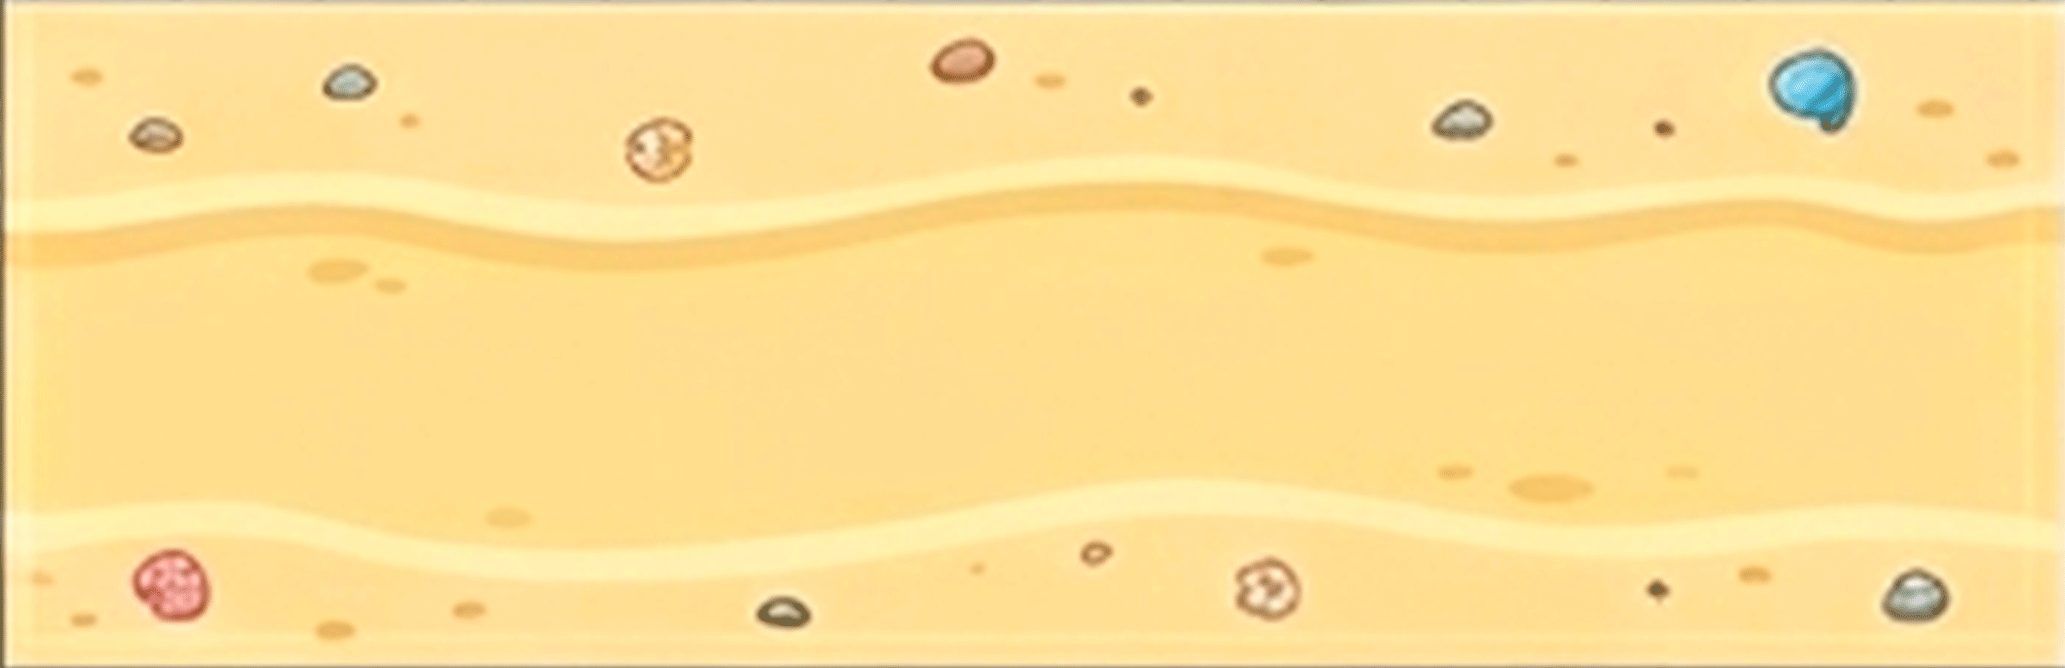
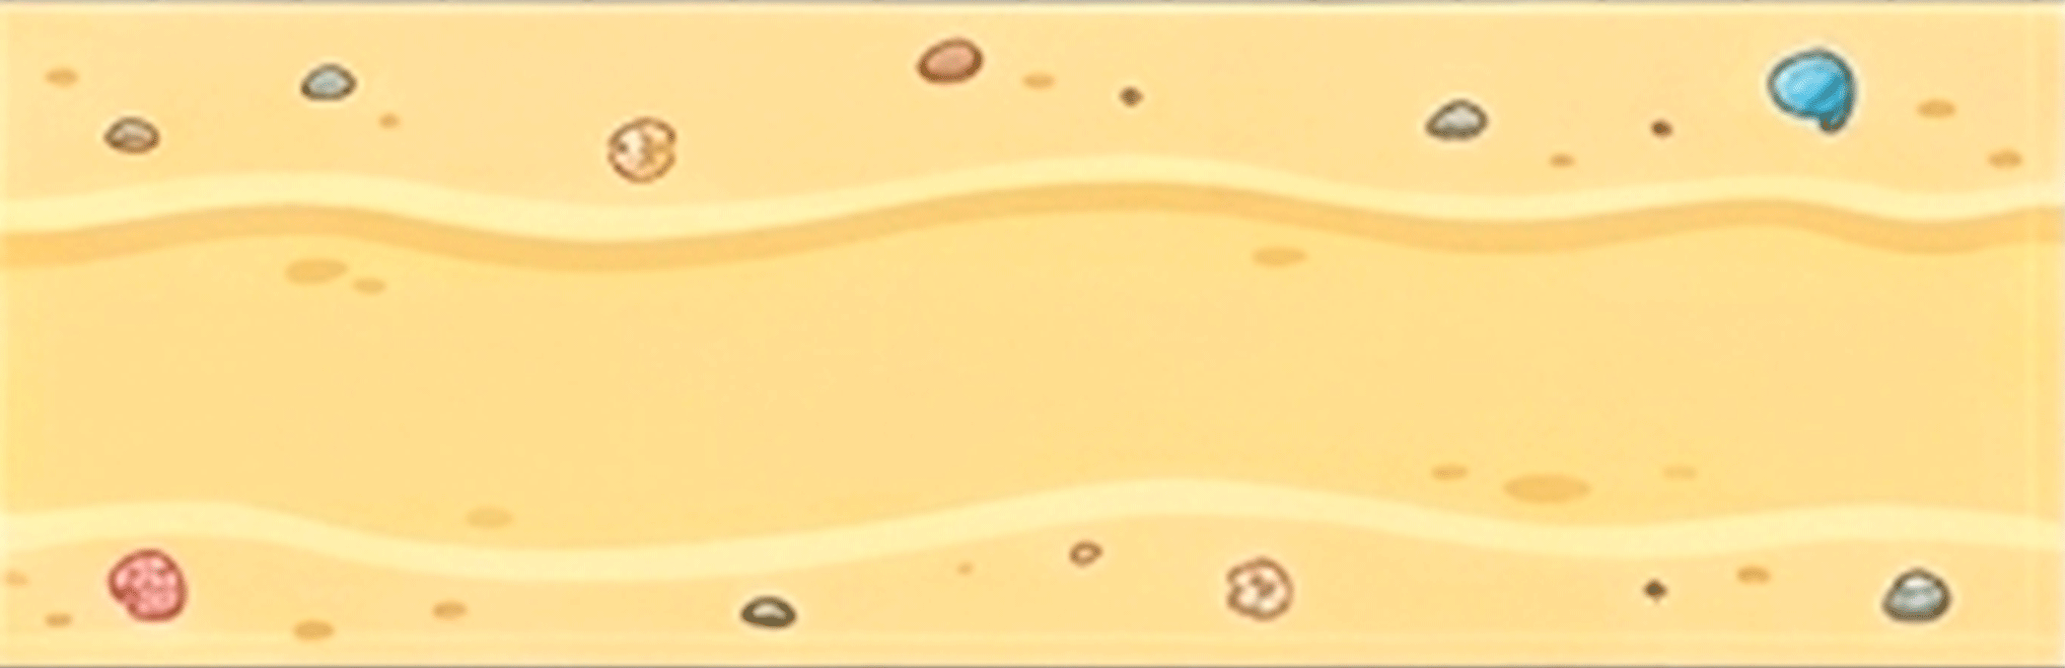
sprites corrections

diff --git a/game.html b/game.html
@@ -41,7 +41,7 @@
    LA BODA DE CRIS Y JOSÉ — ENDLESS RUNNER v3
    Assets in:  assets/characters/*.png   assets/bg/*.png
 ═══════════════════════════════════════════════════════════════════ */
-const W=800, H=360, GROUND_Y=H-35, GOAL_DIST=2000;
+const W=800, H=360, GROUND_Y=H-42, GOAL_DIST=2000;
 const SPEEDS={initial:260,max:500,accelPerSec:7};
 
 /* ── All character asset keys (filenames without .png) ── */
@@ -303,7 +303,7 @@ class MenuScene extends Phaser.Scene {
   constructor(){ super({key:'Menu'}); }
   create(){
     this.cameras.main.setBackgroundColor('#1a0a00');
-    this.add.image(W/2,H/2).setDisplaySize(W,H).setAlpha(.9);
+    this.add.image(W/2,H/2,'portada').setDisplaySize(W,H).setAlpha(.9);
     const ov=this.add.graphics();
     ov.fillGradientStyle(0,0,0,0,0,0,0,0.55); ov.fillRect(0,H*.58,W,H*.42);
 
@@ -377,7 +377,7 @@ class GameScene extends Phaser.Scene {
     
     /* World */
     this.bgFar = this._scaledBg(0, H, `bg_${this.themes[0]}_far`, 0);
-    this.bgMid = this._scaledBg(0, H, `bg_${this.themes[0]}_mid`, 1);
+    this.bgMid = this._scaledBg(0, H - 85, `bg_${this.themes[0]}_mid`, 1);
     this.gndTile = this._scaledBg(H - 85, 85, `floor_${this.themes[0]}`, 3);
     
     /* Variables */
@@ -392,11 +392,11 @@ class GameScene extends Phaser.Scene {
     this.shadow=this.add.ellipse(120,GROUND_Y+4,80,12,0,0.18).setDepth(3);
 
     /* Vale */
-    this.valeImg=this.add.image(W + Phaser.Math.Between(800, 2500),GROUND_Y,'vale_walking01').setOrigin(.5,1).setDepth(8);
-    let valeTex = this.textures.get('vale_walking01').getSourceImage();
+    this.valeImg=this.add.image(W + Phaser.Math.Between(800, 2500),GROUND_Y - 30,'vale_idle-Stand01').setOrigin(.5,1).setDepth(8);
+    let valeTex = this.textures.get('vale_idle-Stand01').getSourceImage();
     let valeScale = valeTex && valeTex.height ? 90 / valeTex.height : 1;
     this.valeImg.setScale(valeScale);
-    this.valeAnim=new Anim(this.valeImg,ANIMS.vale.walk,3);
+    this.valeAnim=new Anim(this.valeImg,ANIMS.vale.idle,3);
 
     /* Groups */
     this.items=this.add.group();
@@ -513,7 +513,10 @@ class GameScene extends Phaser.Scene {
     else if(r < 0.7){ type=Phaser.Utils.Array.GetRandom(blockerMoneyTypes); category='block_money'; }
     else if(r < 0.9){ type=Phaser.Utils.Array.GetRandom(blockerLifeTypes); category='block_life'; }
     else { type=Phaser.Utils.Array.GetRandom(powerupTypes); category='powerup'; }
-    const y=Math.random()<0.65 ? GROUND_Y-20 : GROUND_Y-78-Math.random()*48;
+    let y = GROUND_Y;
+    if(category === 'block_money' || category === 'powerup') {
+        y = GROUND_Y - 75;
+    }
     const o=this.add.image(W+42,y,type).setDepth(7);
     const oTex=this.textures.get(type).getSourceImage();
     const oScale=oTex && oTex.height ? 60 / oTex.height : 1;
@@ -533,8 +536,8 @@ class GameScene extends Phaser.Scene {
       {key:'pilly',effect:'boost'},
     ];
     const d=Phaser.Utils.Array.GetRandom(defs);
-    const frames=Math.random()<.35?ANIMS[d.key].sleep:ANIMS[d.key].walk;
-    const c=this.add.image(W+64,GROUND_Y,frames[0]).setOrigin(.5,1).setDepth(9);
+    const frames=Math.random()<.35?ANIMS[d.key].sleep:ANIMS[d.key].idle;
+    const c=this.add.image(W+64,GROUND_Y + 15,frames[0]).setOrigin(.5,1).setDepth(9);
     
     let cTex = this.textures.get(frames[0]).getSourceImage();
     let cScale = cTex && cTex.height ? 60 / cTex.height : 1;
@@ -651,7 +654,7 @@ class GameScene extends Phaser.Scene {
     this._tone(120,.25,'sawtooth');
     this.cameras.main.shake(230,.01);
     this.cameras.main.flash(175,255,50,50);
-    this.time.delayedCall(1800,()=>{ this._hit=false; this.valeAnim.set(ANIMS.vale.walk,3); });
+    this.time.delayedCall(1800,()=>{ this._hit=false; this.valeAnim.set(ANIMS.vale.idle,3); });
   }
 
   _popup(x,y,msg,col){
